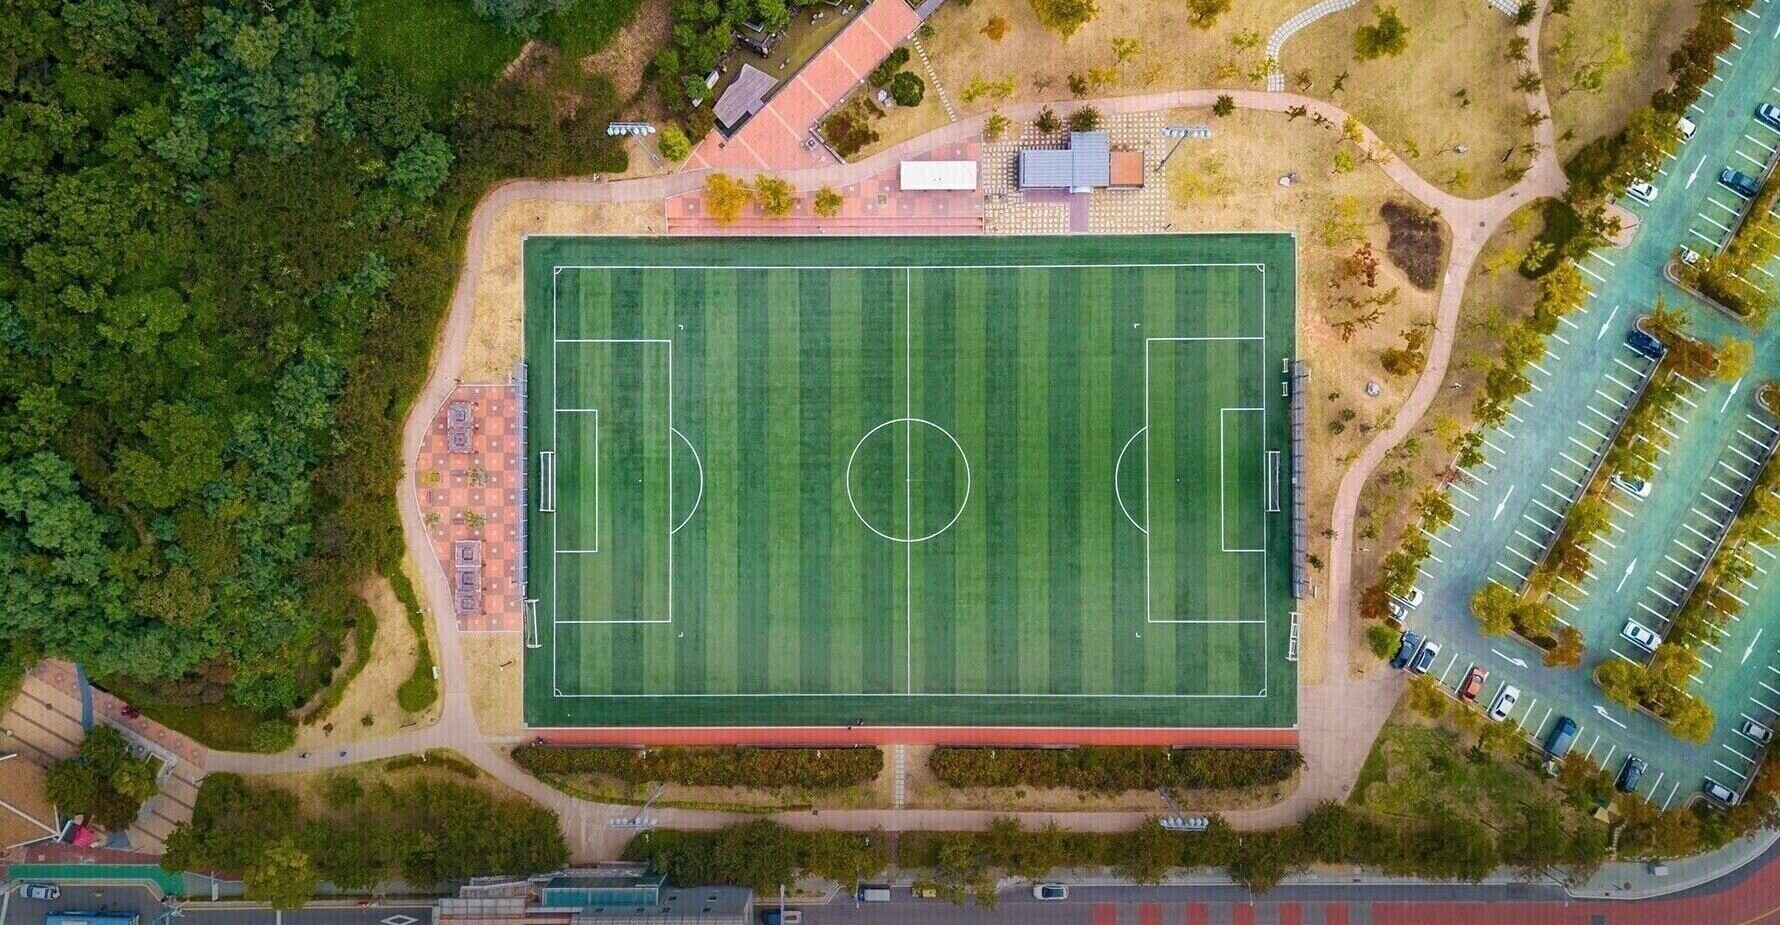
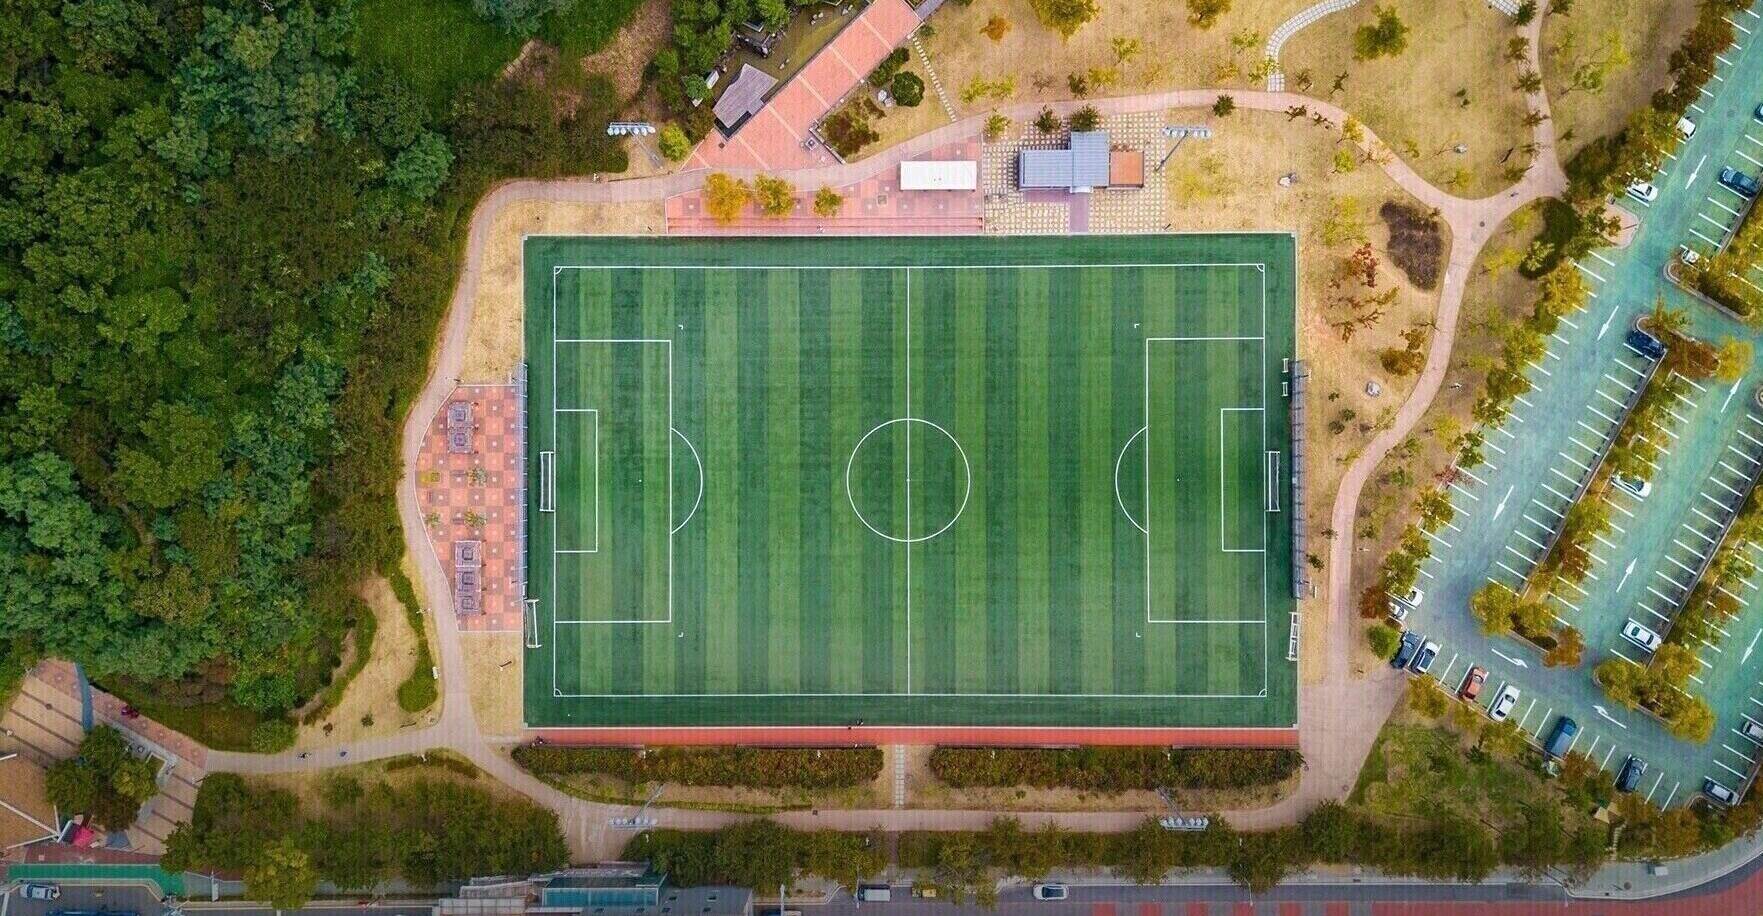
Crop

diff --git a/portfolio.html b/portfolio.html
@@ -22,7 +22,7 @@
 							<div class="inner">
 								<h1>Welcome!</h1>
 								<p>Feel free to browse through my various projects linked below!</p>
-								<p>1780 r 925 b</p>
+								<p>crop</p>
 							</div>
 						</div>
 						
